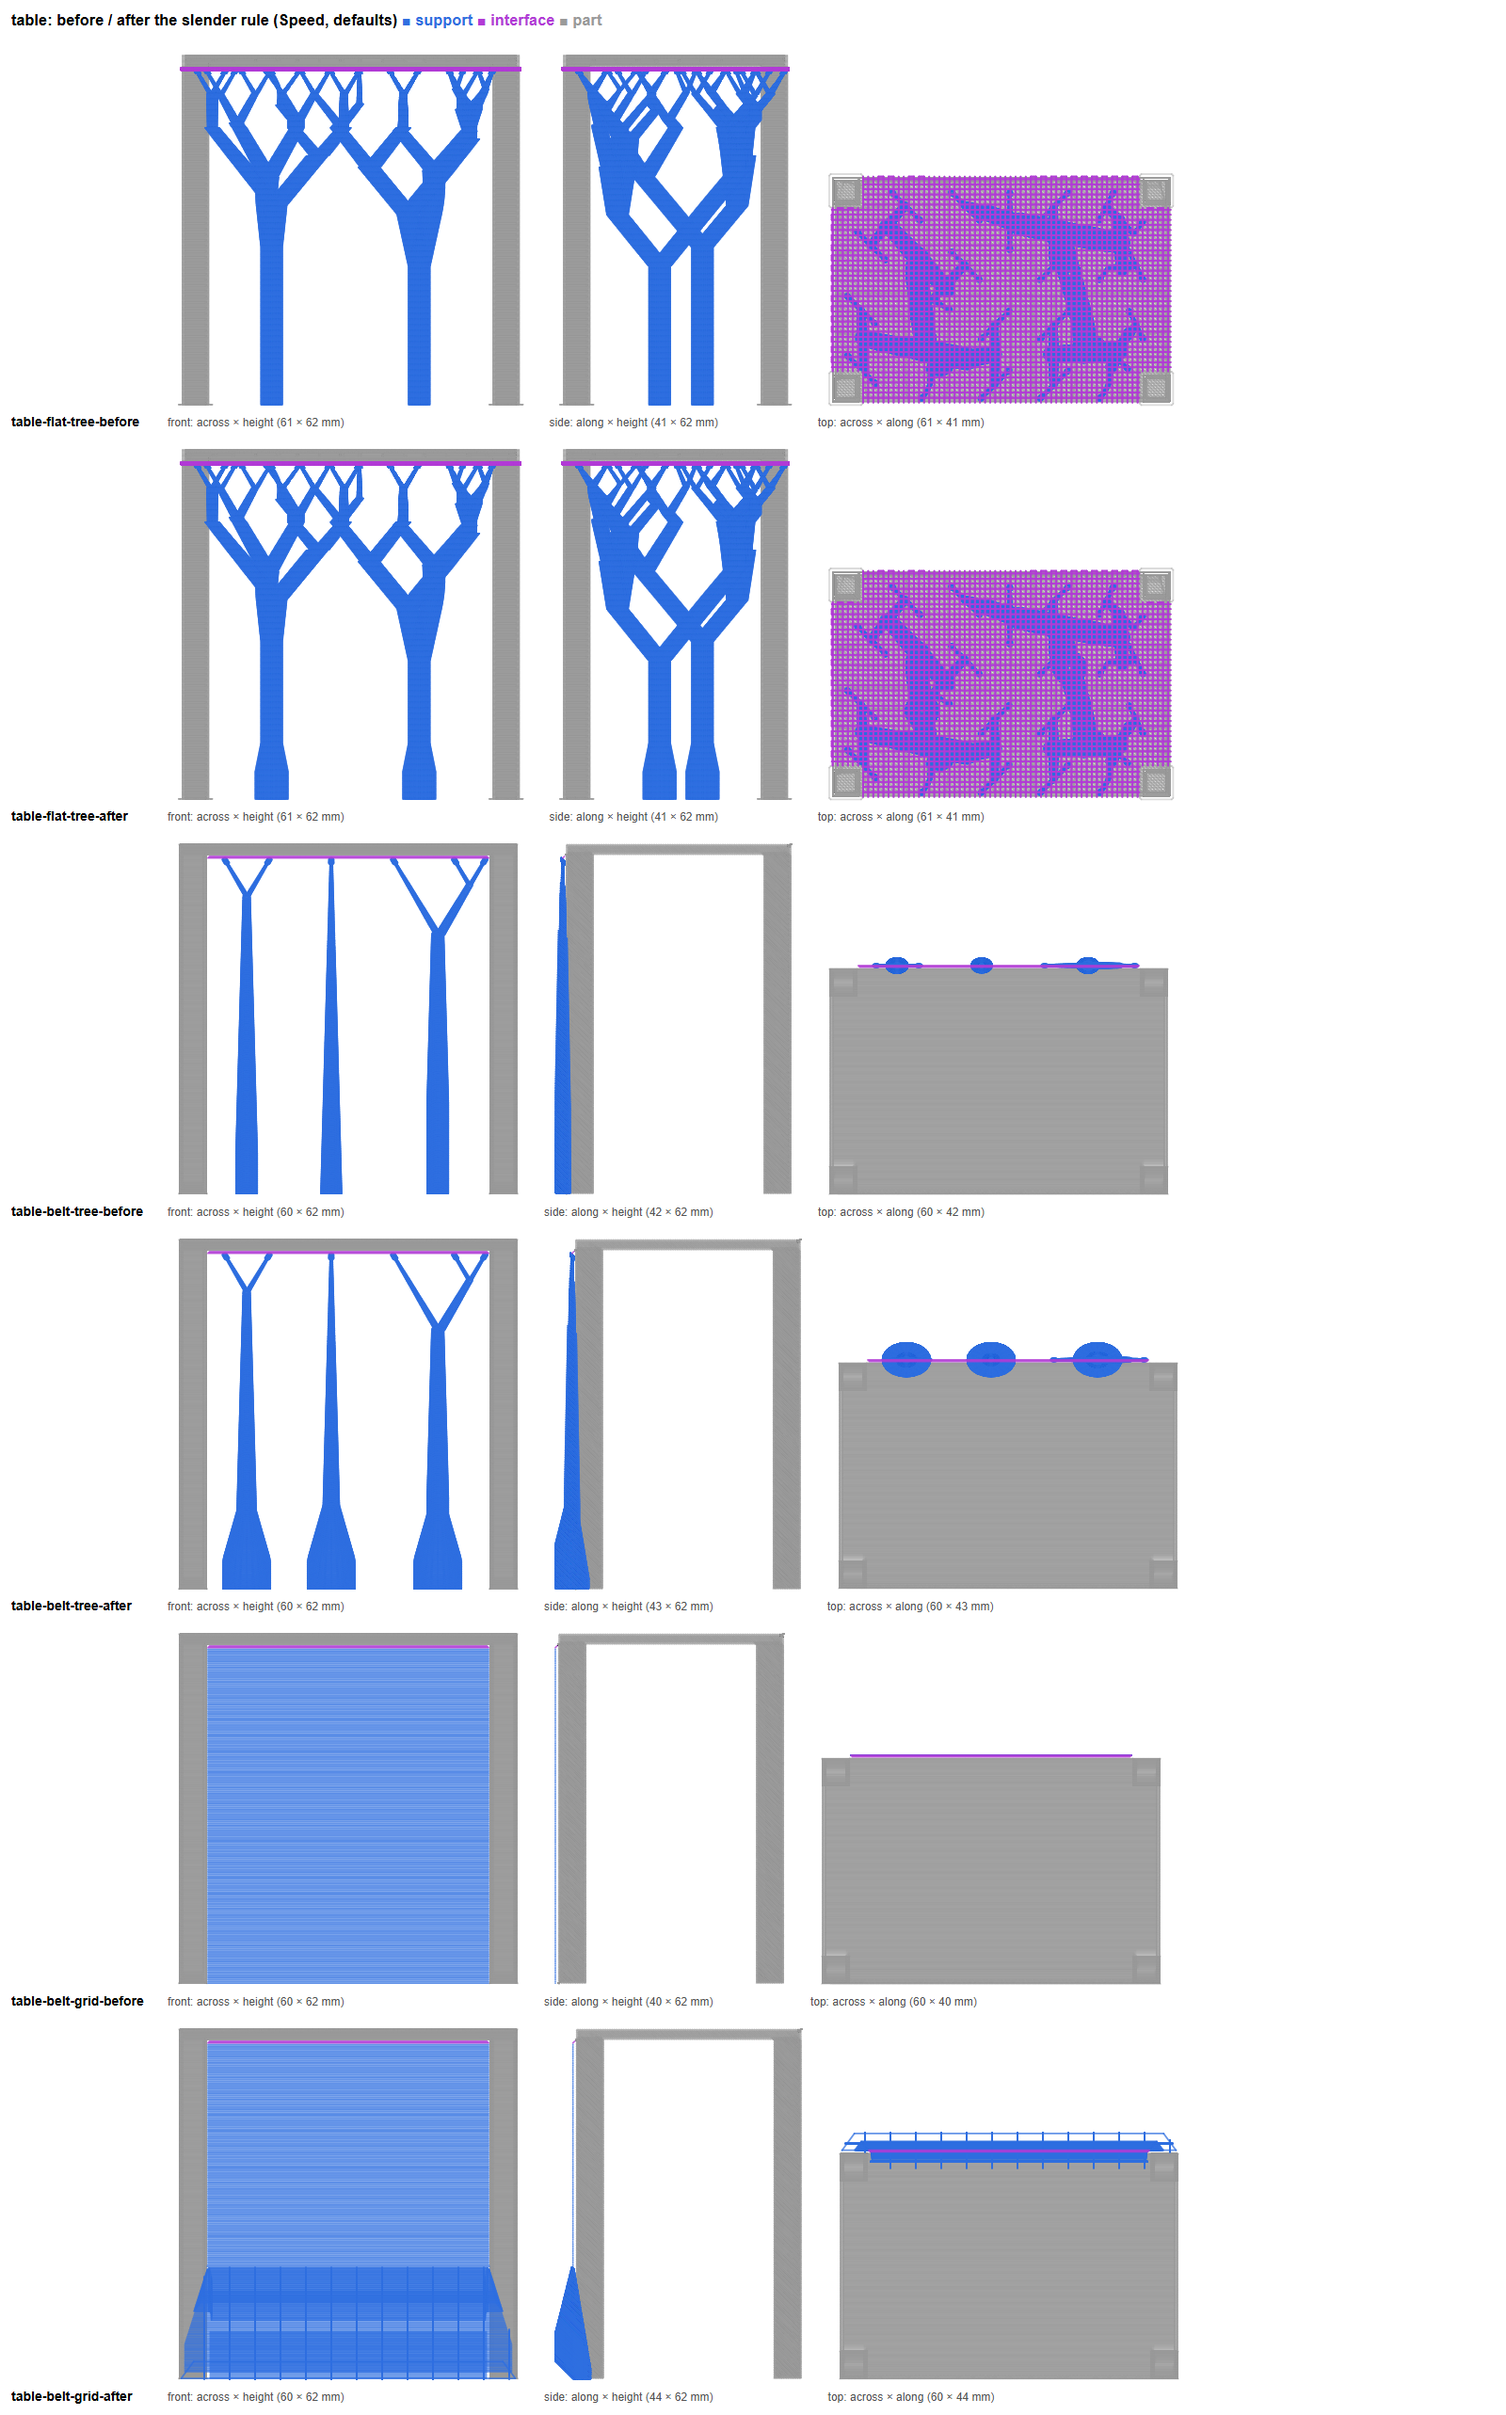
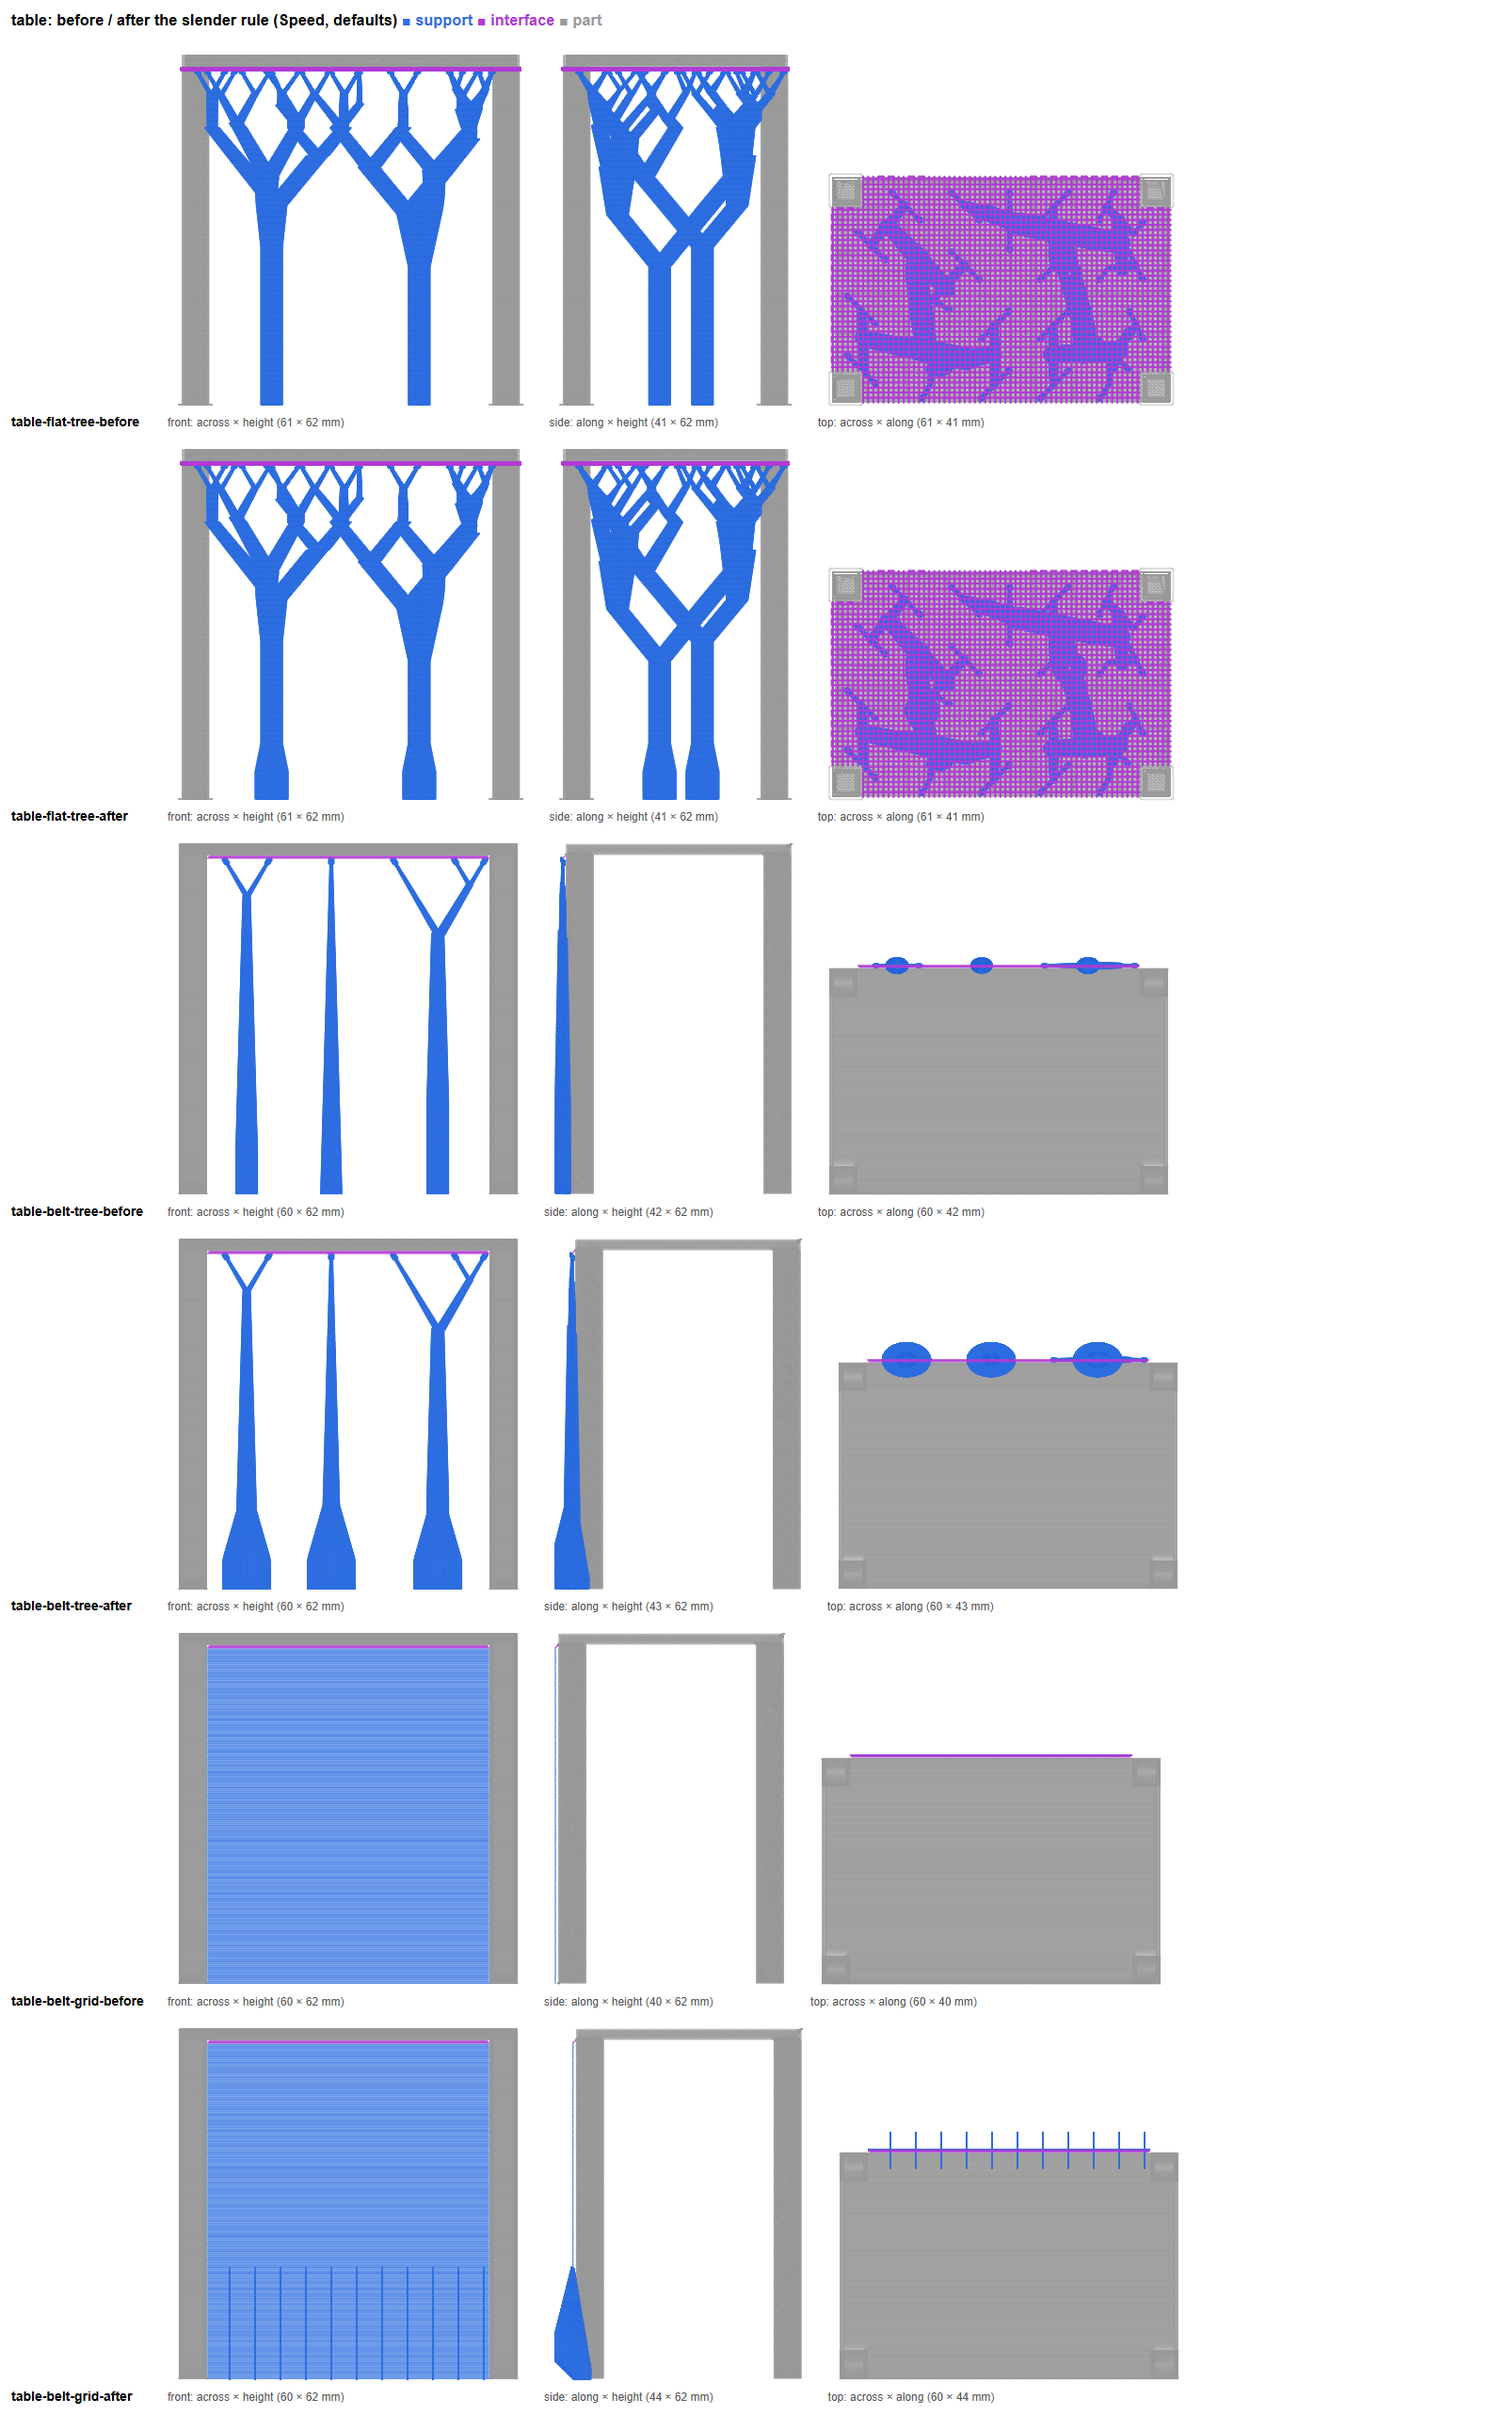
Widen belt grid columns with ribs along the belt
The belt grid widening filled the widened region with grid lines both
ways and a wall where narrow: +12.5 to +21.8 % on the cantilevers, table
and tall pad, and new beads in the air where the wall stopped (101 mm on
the table). On a belt a column now grows only along the belt (a swept
band, so its ends stay put), prints as it did, and the widening adds
only ribs along the belt on the column's own pinned grid X (or one
through its middle), each standing on the rib under it. Flat-bed grid is
unchanged. Worst row now +9.3 % (tall pad belt grid); the table's belt
grid has no unrested bead; ratios stay at or under 10.

Changed region(s): [[0.125, 0.9353, 0.3438, 0.9977], [0.5625, 0.873, 0.7812, 0.9041]]

diff --git a/crates/lime-slice-core/src/slice/supports.rs b/crates/lime-slice-core/src/slice/supports.rs
@@ -13,7 +13,7 @@ use crate::support::tree::Foot;
 use crate::support::{Disk, FloorPlane, SupportLayer, SupportOpts, Supports};
 use crate::toolpath::{
     bed_feet, plan_belt_support, plan_brim_lines, plan_support, plan_support_brim,
-    plan_support_walls, plan_tree_support, Extrusion,
+    plan_support_ribs, plan_support_walls, plan_tree_support, Extrusion,
 };
 use crate::{
     BlendMode, PathKind, SliceSettings, Stage, StrategyId, SupportSource, SupportStyle, Watch,
@@ -213,10 +213,11 @@ pub(super) fn support_paths(
     // Y from layer to layer. Its lines fall with it, through a point fixed
     // in the lab, so each layer's lines stand on the lines below.
     let through = floor.map(|floor| [0.0, -z * floor.tan_a()]);
-    // A column the slender rule widened is filled with its own grid lines
-    // carried on: on a belt they are pinned in the lab already, and on a flat
-    // bed they start from the edge of the column as it was, so they stand on
-    // the lines under them as the widening grows.
+    // A column the slender rule widened. On a flat bed it is filled with its
+    // own grid lines carried on, which start from the edge of the column as
+    // it was, so they stand on the lines under them as the widening grows.
+    // On a belt the column prints as it did, and the widening adds only ribs
+    // across its thin direction (`plan_support_ribs`, below).
     let widened;
     let walls_strategy = (!layer.walls.is_empty()).then(|| match blend {
         BlendMode::ByRegion { .. } => resolve(pure(StrategyId::Toughness), settings),
@@ -224,6 +225,7 @@ pub(super) fn support_paths(
     });
     let (sparse, through) = match &walls_strategy {
         None => (&layer.sparse[..], through),
+        Some(_) if floor.is_some() => (&layer.sparse[..], through),
         Some(strategy) => {
             let spacing = (line_width / support_density(strategy)).clamp(line_width * 1.05, 8.0);
             let pin = through.or_else(|| {
@@ -284,7 +286,16 @@ pub(super) fn support_paths(
     }
     if let Some(strategy) = walls_strategy.as_ref().filter(|_| shaft_scale > 0.0) {
         let density = support_density(strategy);
-        let mut walls = plan_support_walls(&layer.walls, strategy, line_width, density);
+        let mut walls = match floor {
+            Some(_) => plan_support_ribs(
+                &layer.walls,
+                strategy,
+                line_width,
+                density,
+                through.unwrap_or_default(),
+            ),
+            None => plan_support_walls(&layer.walls, strategy, line_width, density),
+        };
         if shaft_scale > 1.01 {
             for path in &mut walls {
                 path.bead_height = height * shaft_scale;

diff --git a/crates/lime-slice-core/src/support.rs b/crates/lime-slice-core/src/support.rs
@@ -258,6 +258,34 @@ impl Sturdy {
     }
 }
 
+/// `region` swept from `-by` to `+by`: its two ends and every edge's band,
+/// each wound counter-clockwise so the union fills holes too.
+fn sweep(region: &[Loop], by: [f64; 2]) -> Vec<Loop> {
+    let moved = |p: [f64; 2], t: f64| [p[0] + by[0] * t, p[1] + by[1] * t];
+    let mut parts: Vec<Loop> = Vec::new();
+    for l in region {
+        for t in [-1.0, 1.0] {
+            parts.push(l.iter().map(|&p| moved(p, t)).collect());
+        }
+        for (k, &a) in l.iter().enumerate() {
+            let b = l[(k + 1) % l.len()];
+            parts.push(vec![
+                moved(a, -1.0),
+                moved(b, -1.0),
+                moved(b, 1.0),
+                moved(a, 1.0),
+            ]);
+        }
+    }
+    for l in &mut parts {
+        if signed_area(l) < 0.0 {
+            l.reverse();
+        }
+    }
+    parts.retain(|l| l.len() >= 3);
+    resolve_nonzero(parts)
+}
+
 /// The thinnest width of `region` over 36 directions, its Y scaled by `along`.
 fn thinnest(region: &[Loop], along: f64) -> f64 {
     const DIRECTIONS: usize = 36;
@@ -1195,9 +1223,21 @@ fn sturdy_columns(demand: &mut Demand, bands: &[LayerBand], gaps: &[Vec<Loop>], 
                 // it where the part's gap holds the other side back. Either
                 // grows smoothly with the need, so each layer's outline stays
                 // within a fraction of a bead of the one under it.
+                // On a belt a column grows only along the belt, its thin way
+                // there (a blade standing across the belt), so its ends stay
+                // where they were and every rib across it (`plan_support_ribs`)
+                // crosses the column's own line. One thinner across the belt
+                // is left as it is.
+                let thin_along = (bb.1[1] - bb.0[1]) * sturdy.cos_a <= bb.1[0] - bb.0[0];
+                if sturdy.floor.is_some() && !thin_along {
+                    continue;
+                }
                 let shortfall = (need - have) / sturdy.cos_a;
                 let grown = |grow: f64| {
-                    let wide = offset_loops(comp, grow);
+                    let wide = match sturdy.floor {
+                        None => offset_loops(comp, grow),
+                        Some(_) => sweep(comp, [0.0, grow]),
+                    };
                     if gaps[i].is_empty() {
                         wide
                     } else {

diff --git a/crates/lime-slice-core/src/toolpath/support_emit.rs b/crates/lime-slice-core/src/toolpath/support_emit.rs
@@ -159,6 +159,57 @@ pub fn plan_support_walls(
     paths
 }
 
+/// Ribs across each grid column the slender rule widened on a belt. The
+/// widening runs along the belt, slice Y, so each rib runs that way too, on
+/// the lines `line_width / density` apart that pass through `through`, as
+/// the column's own grid lines do: each rib stands on the one under it as
+/// the column falls and widens toward the belt, and the column's own line
+/// along it ties them. A column too short for any of those lines gets one rib through
+/// its middle. Each rib prints alone: a turn from one to the next would run
+/// along the widening's edge, which moves from layer to layer.
+pub fn plan_support_ribs(
+    widened: &[Loop],
+    strategy: &ResolvedStrategy,
+    line_width: f64,
+    density: f64,
+    through: [f64; 2],
+) -> Vec<Extrusion> {
+    if widened.is_empty() || density <= 0.01 {
+        return Vec::new();
+    }
+    let spacing = (line_width / density).clamp(line_width * 1.05, 8.0);
+    let speed = crate::strategy::support_speed(strategy, false);
+    let mut paths = Vec::new();
+    for comp in crate::support::components(widened) {
+        let Some((min, max)) = loop_bounds(&comp) else {
+            continue;
+        };
+        // The rule widens a belt column along the belt only: ribs run along
+        // slice Y, at X on the grid.
+        let (lo, hi, pin) = (min[0], max[0], through[0]);
+        let first = pin + ((lo + line_width * 0.5 - pin) / spacing).ceil() * spacing;
+        let mut at: Vec<f64> = (0..)
+            .map(|k| first + k as f64 * spacing)
+            .take_while(|&t| t <= hi - line_width * 0.5)
+            .collect();
+        if at.is_empty() {
+            at.push((lo + hi) * 0.5);
+        }
+        let lines: Vec<Vec<[f64; 2]>> = at
+            .into_iter()
+            .map(|t| vec![[t, min[1] - 1.0], [t, max[1] + 1.0]])
+            .collect();
+        for pts in clip_infill(lines, &comp) {
+            if pts.len() >= 2 && polyline_len(&pts) > 0.4 {
+                let mut path = extrusion(PathKind::Support, strategy, pts, line_width);
+                path.speed = speed;
+                paths.push(path);
+            }
+        }
+    }
+    paths
+}
+
 /// The line through a strip's centroid along its major axis, inside it.
 fn strip_spine(comp: &[Loop]) -> Vec<Vec<[f64; 2]>> {
     let (Some((c, angle)), Some((min, max))) = (principal_axis(&comp[0]), loop_bounds(comp)) else {

diff --git a/crates/lime-slice-core/tests/support_stability.rs b/crates/lime-slice-core/tests/support_stability.rs
@@ -280,9 +280,8 @@ fn belt_table_trees_are_wide_enough_along_the_belt() {
 }
 
 /// Belt grid under the table's leading edge was a sheet one bead thick. It
-/// is widened along the belt toward its foot now. Where the widening grows
-/// past what its grid lines cross alone, its wall stops: the wall's last
-/// layer bridges from line to line of the grid under it, on two layers.
+/// is widened along the belt toward its foot now, by ribs across the sheet
+/// that each stand on the rib under it: no bead of it rests on nothing.
 #[test]
 fn belt_grid_under_the_table_is_widened_along_the_belt() {
     let s = stability(&table(), Bed::Belt, "grid");
@@ -292,8 +291,29 @@ fn belt_grid_under_the_table_is_widened_along_the_belt() {
         "{sheet:?}"
     );
     assert_eq!(sheet.stands_on, Stand::Belt, "{sheet:?}");
-    assert!(s.unrested_layers <= 2, "{s:?}");
-    assert!(s.unrested_mm < 0.01 * s.support_mm, "{s:?}");
+    assert_eq!(s.unrested_mm, 0.0, "{s:?}");
+}
+
+/// The widened belt grid adds no beads in the air but at its feet: on the
+/// cantilevers, where a rib meets the belt beside the wall, under 10 mm of
+/// its 7.5 m, all within a millimetre and a half of the belt. The tall
+/// pad's column had 540 mm unrested before the rule (#710 left them), and
+/// fewer after.
+#[test]
+fn belt_grid_ribs_rest_on_the_ribs_under_them() {
+    for (name, stl, most) in [
+        ("tall pad", tall_pad(), 600.0),
+        ("table", table(), 0.0),
+        ("cantilevers", cantilevers(), 10.0),
+    ] {
+        let s = stability(&stl, Bed::Belt, "grid");
+        assert!(s.unrested_mm <= most, "{name}: {s:?}");
+        if name == "cantilevers" {
+            for c in &s.most_unrested {
+                assert!(c.unrested_at.unwrap()[2] < 1.5, "{name}: {c:?}");
+            }
+        }
+    }
 }
 
 /// Belt grid under the small hanging pad was loose dashes that reached
